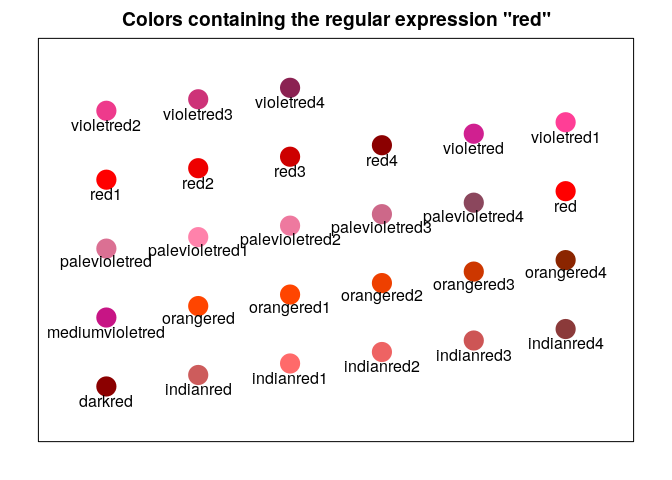
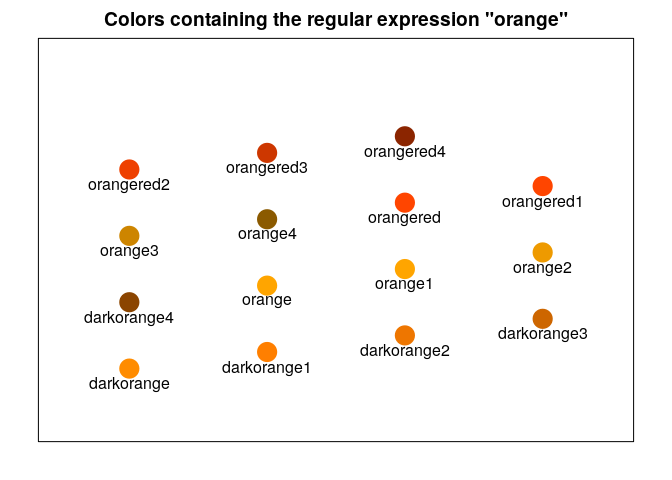
add examples in homework-submit

diff --git a/README.md b/README.md
@@ -10,7 +10,7 @@ For example, to find the appropriate version of red:
 
 ``` r
 library(decs922)
-colorkey('red')
+colorkey('orange')
 ```
 
 <img src="README_files/figure-gfm/unnamed-chunk-1-1.png" width="70%" />
